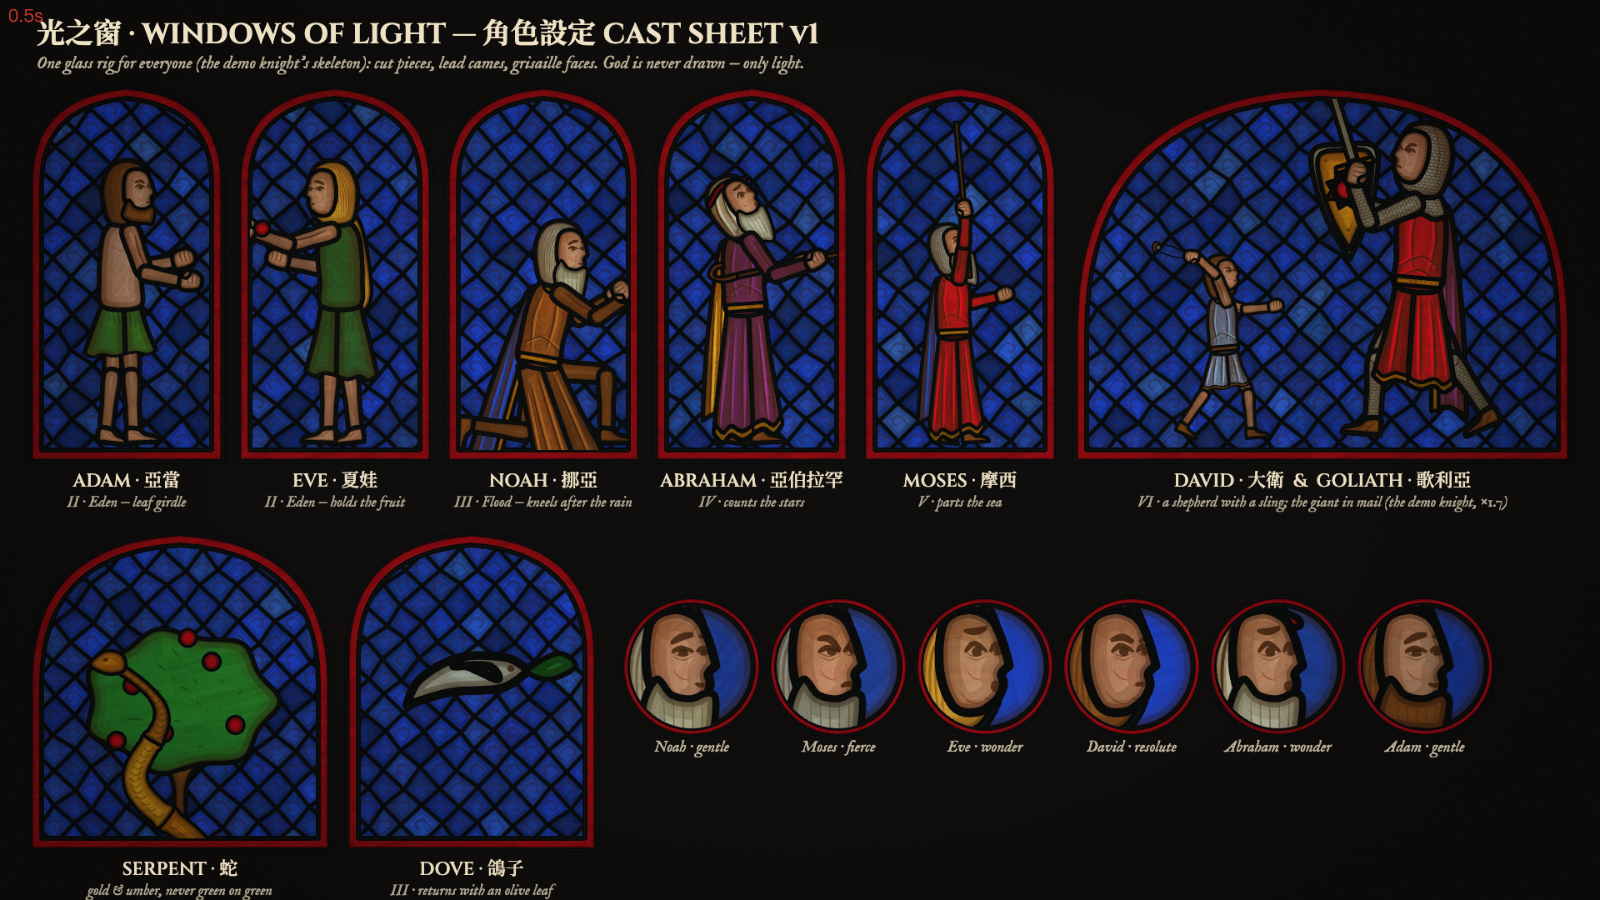
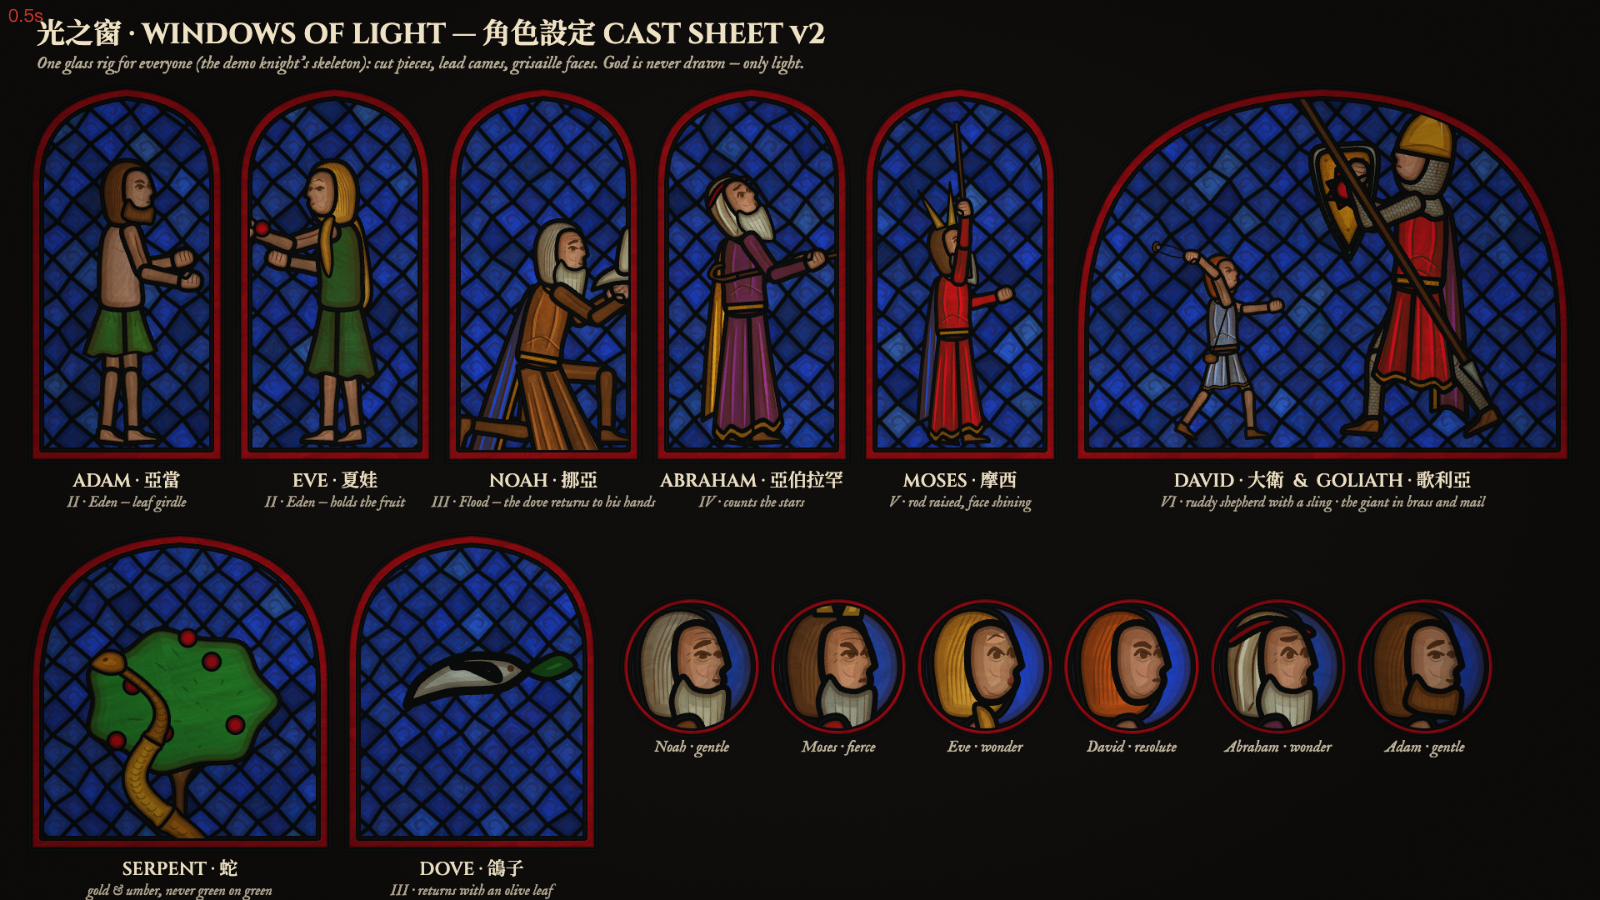
Cast sheet v2: iconographic attributes per character
Moses rays of light, Goliath brass helmet and spear, ruddy David with
shepherd bag, Eve feminine face and hair lock, Noah with the dove,
age lines for the elders.

diff --git a/sg/figure.js b/sg/figure.js
@@ -2,7 +2,8 @@
 // piece logic as knight.js; the costume swaps colours and a few pieces (hair / headcloth / beard / long robe /
 // staff / sling / fruit). Facing right; mirror with a negative x scale. Pelvis at origin, feet at y≈+182.
 import { COL, INK, smooth, circle, ellipse, brush, line } from './glass.js';
-import { SH, EXPR, fk, faceGrisaille, folds, hatch, fingers, POSE } from './knight.js';
+import { SH, EXPR, fk, faceGrisaille, folds, hatch, fingers, POSE, drawKnight } from './knight.js';
+import { dove } from './window.js';
 
 const D = Math.PI / 180;
 export const FPOSE = {
@@ -21,6 +22,19 @@ export const FPOSE = {
 const HAIRLONG = smooth([[-4, -124], [-24, -118], [-36, -76], [-42, -16], [-30, 4], [-20, -30], [-12, -86]]);
 const BAND = smooth([[-22, -48], [2, -60], [30, -54], [31, -48], [3, -54], [-21, -42]]);
 const beardPath = (L) => smooth([[4, -21], [12, -13], [22, -11], [31, -14], [35, -9], [32, 4 + L * .3], [25, L], [14, L * .86], [4, L * .5], [-3, -4]]);
+const LOCK = smooth([[8, -120], [22, -114], [28, -86], [22, -52], [14, -40], [10, -60], [12, -92]]);   // Eve: hair falling in front
+const BAG = smooth([[-40, 4], [-18, 2], [-16, 26], [-28, 34], [-42, 26]]);                        // David: shepherd's bag
+// Moses: two beams of light from the head (Ex 34:29, "the skin of his face shone"; medieval glass draws them as rays)
+const RAY = (x0, y0, x1, y1, w) => smooth([[x0 - w, y0, 1], [x1, y1, 1], [x0 + w, y0, 1]]);
+// age: forehead lines, crow's feet, a line from nose to mouth
+const aged = (g) => { for (const y of [-49, -45]) brush(g, [[12, y], [20, y - 1.5], [28, y]], 1, { w0: .3, w1: .3, color: 'rgba(44,26,12,.5)' });
+  brush(g, [[10, -37], [7, -35]], .9, { color: 'rgba(44,26,12,.5)' }); brush(g, [[10, -33], [7, -30]], .9, { color: 'rgba(44,26,12,.5)' });
+  brush(g, [[29, -27], [26, -22], [24, -18]], 1, { w0: .3, w1: .2, color: 'rgba(44,26,12,.45)' }); g.fillStyle = 'rgba(80,44,22,.2)'; g.fill(ellipse(17, -31, 6, 2.4)); };
+// Eve: thin high arched brows (scrape the heavy brow back to the glass colour, repaint), a touch of colour on the lips
+const feminine = (g, e) => { const bh = e.bh;
+  brush(g, [[11.5, -40.5 + bh + e.bo], [17.5, -42.8 + bh], [23.4, -41.4 + bh + e.bi]], 5.2, { w0: .9, w1: .9, color: 'rgba(188,138,108,.92)' });
+  brush(g, [[12, -42 + bh], [17.5, -45.5 + bh], [23.5, -43.5 + bh]], 1.5, { w0: .4, w1: .3 });
+  g.fillStyle = 'rgba(150,48,50,.3)'; g.fill(ellipse(27.4, -18.4, 3.6, 1.5)); };
 const STAFF = smooth([[-3.6, -118, 1], [3.6, -118, 1], [3.6, 150, 1], [-3.6, 150, 1]]);
 const CROOK = smooth([[-3.6, -112], [-4, -134], [8, -150], [22, -140], [22, -126, 1], [16, -126, 1], [15, -137], [7, -142], [3, -132], [3.6, -112, 1]]);
 
@@ -55,11 +69,13 @@ export function drawFigure(P, base, p, c = {}) {
   P.piece(SH.skirtB, skirt, { id: ID + 12, lead: LW, wash: .4, shade: [-50, 0, 5, 0, .4], paint: g => { if (c.leaves) return leafy(g); folds(g, [[[-6, 10], [-8, 60], [-10, 106]], [[-18, 12], [-24, 60], [-27, 104]], [[-28, 20], [-38, 70], [-44, 106]]], 2.5, true); } });
   P.piece(SH.skirtF, skirt, { id: ID + 13, lead: LW, wash: .35, shade: [5, 0, 45, 0, .2], paint: g => { if (c.leaves) return leafy(g); folds(g, [[[14, 10], [20, 60], [24, 100]], [[24, 20], [32, 64], [38, 98]]], 2.5, true); } });
   if (c.hem !== false) { P.piece(SH.hemB, c.hem || COL.gold, { id: ID + 41, lead: LW * .7, mat: false }); P.piece(SH.hemF, c.hem || COL.gold, { id: ID + 42, lead: LW * .7, mat: false }); }
+  if (c.bag) { P.piece(BAG, c.bag, { id: ID + 48, lead: LW * .8, matW: 6, paint: g => brush(g, [[-38, 8], [-28, 12], [-18, 8]], 1.4, { color: 'rgba(44,26,12,.6)' }) }); }
   // torso
   at(J.torso);
   const torso = c.torso || COL.ruby;
   P.piece(SH.torso, torso, { id: ID + 14, lead: LW, wash: torso === skin ? .2 : .4, shade: [-30, 0, 20, 0, .4], paint: g => { if (torso === skin) { brush(g, [[-12, -80], [2, -74], [16, -80]], 1.6, { color: 'rgba(80,44,22,.45)' }); return; } if (c.leaves) return leafy(g); folds(g, [[[-14, -20], [-18, -60], [-12, -96]], [[6, -24], [10, -60], [8, -90]], [[-24, -26], [-2, -38], [22, -26]]], 2.3, true); hatch(g, -32, -90, -18, -20); } });
   if (c.belt) P.piece(SH.belt, c.belt, { id: ID + 15, lead: LW * .8, mat: false });
+  if (c.bag) { const st = new Path2D(); st.moveTo(20, -104); st.lineTo(-24, -2); P.lead(st, 3.4); }
   if (c.collar !== false && torso !== skin) P.piece(SH.neck, c.collar || COL.gold, { id: ID + 43, lead: LW * .7, mat: false });
   // head: hair cap or headcloth (the knight's coif shape), face, beard
   at(J.head, 1.16);
@@ -69,7 +85,8 @@ export function drawFigure(P, base, p, c = {}) {
   } else {
     P.piece(SH.coif, c.hair || COL.brown, { id: ID + 17, lead: LW / 1.16, shade: [-25, 0, 20, 0, .42], paint: g => { for (let k = 0; k < 6; k++) brush(g, [[-2 + k * 4, -64], [-14 + k * 3, -34], [-14 + k * 3, -2]], 1.5, { color: 'rgba(50,28,10,.5)' }); } });
   }
-  P.piece(SH.face, skin, { id: ID + 18, vary: .04, lead: LW * .75, matW: 5, matA: .9, paint: g => faceGrisaille(g, e) });
+  P.piece(SH.face, skin, { id: ID + 18, vary: .04, lead: LW * .75, matW: 5, matA: .9, paint: g => { faceGrisaille(g, e); if (c.old) aged(g); if (c.fem) feminine(g, e); } });
+  if (c.rays) { P.piece(RAY(2, -62, -12, -126, 7.5), COL.gold2, { id: ID + 49, lead: 3.4, mat: false }); P.piece(RAY(18, -60, 36, -122, 7.5), COL.gold2, { id: ID + 50, lead: 3.4, mat: false }); }
   if (c.beard) {
     P.piece(beardPath(c.beard), c.beardCol || c.hair || COL.white, { id: ID + 47, lead: LW * .6, matW: 5, paint: g => { for (let k = 0; k < 5; k++) brush(g, [[8 + k * 5, -10], [9 + k * 4.5, c.beard * .5], [8 + k * 4, c.beard * .85]], 1.2, { color: 'rgba(60,40,20,.5)' }); brush(g, [[21, -20.5], [27, -22.5], [34, -19.5]], 2.8, { w0: .3, w1: .3 }); } });
   }
@@ -87,16 +104,32 @@ export function drawFigure(P, base, p, c = {}) {
     P.piece(ellipse(1, 74, 9, 6), COL.brown, { id: ID + 24, lead: 3, mat: false }); P.piece(circle(1, 70, 4.5), COL.steel2, { id: ID + 25, lead: 2.4, mat: false });
   }
   P.piece(SH.fist, skin, { id: ID + 28, lead: LW * .8, matW: 5, paint: fingers }); P.piece(SH.thumb, skin, { id: ID + 44, lead: LW * .6, mat: false });
+  if (c.item === 'dove') { P.setTransform(base.translate(J.haF[0], J.haF[1]).translate(-2, -30).scale(1.5)); dove(P, 0, 0, 1, ID + 60); }
   if (c.item === 'fruit') P.piece(circle(8, -8, 9), COL.ruby, { id: ID + 29, lead: 3.4, matW: 4, paint: g => brush(g, [[8, -17], [11, -21]], 1.4, { color: 'rgba(30,40,10,.8)' }) });
+  if (c.longHair) { at(J.torso); P.piece(LOCK, c.hair, { id: ID + 51, lead: LW * .6, matW: 5, paint: g => { brush(g, [[14, -110], [18, -84], [12, -56]], 1.2, { color: 'rgba(60,34,10,.55)' }); } }); }
+  return J;
+}
+
+// Goliath: the demo knight, armed as 1 Sam 17:5–7 — helmet of brass, a spear "like a weaver's beam", no sword
+const HELM = smooth([[-26, -38, 1], [-22, -62], [0, -92, 1], [24, -64], [32, -40, 1], [30, -34, 1], [-26, -32, 1]]);
+const NASAL = smooth([[22, -40, 1], [27, -40, 1], [27, -20, 1], [22, -20, 1]]);
+const SPEAR = smooth([[-5, -250, 1], [5, -250, 1], [5, 170, 1], [-5, 170, 1]]), TIP = smooth([[-9, -250, 1], [0, -300, 1], [9, -250, 1]]);
+export function drawGoliath(P, base, p, id = 700) {
+  const J = drawKnight(P, base, { ...p, face: 'fierce' }, { id, noSword: true });
+  P.setTransform(base.translate(J.head[0], J.head[1]).rotate(J.head[2] * 180 / Math.PI).scale(1.16));
+  P.piece(HELM, COL.gold, { id: id + 80, lead: 5, matW: 8, paint: g => { brush(g, [[-24, -40], [2, -44], [30, -38]], 2.2, { color: 'rgba(60,34,10,.6)' }); brush(g, [[-6, -80], [-12, -56]], 1.4, { color: 'rgba(255,240,200,.5)' }); } });
+  P.setTransform(base.translate(J.haF[0], J.haF[1]).rotate((J.haF[2] + (p.wF || 0)) * 180 / Math.PI));
+  P.piece(SPEAR, COL.brown, { id: id + 82, lead: 5, mat: false, paint: g => line(g, [[0, -240], [0, 160]], 1.2, 'rgba(44,26,12,.5)') });
+  P.piece(TIP, COL.steel, { id: id + 83, lead: 4, mat: false });
   return J;
 }
 
 // the cast (costumes) — locked once the cast sheet is approved
 export const CAST = {
   adam: { id: 300, torso: COL.flesh, skirt: COL.green, skirtLen: .56, leaves: true, hem: false, sleeve: 'skin', legs: 'skin', feet: 'skin', hair: COL.brown, beard: 6, beardCol: COL.brown },
-  eve: { id: 360, torso: COL.green2, skirt: COL.green2, skirtLen: .82, leaves: true, hem: false, collar: false, sleeve: 'skin', legs: 'skin', feet: 'skin', hair: COL.gold2, longHair: true, item: 'fruit' },
-  noah: { id: 420, torso: COL.brown, skirt: COL.brown, skirtLen: 1.5, belt: COL.gold, mantle: COL.cobalt, sleeve: COL.brown, hair: COL.white, head: 'hair', beard: 38, beardCol: COL.white, item: 'staff' },
-  abraham: { id: 480, torso: COL.purple, skirt: COL.purple, skirtLen: 1.5, belt: COL.gold, mantle: COL.gold, mantleEdge: COL.ruby, sleeve: COL.purple, head: 'cloth', cloth: COL.white, band: COL.ruby, beard: 30, beardCol: COL.white, item: 'crook' },
-  moses: { id: 540, torso: COL.ruby, skirt: COL.ruby, skirtLen: 1.5, belt: COL.gold, mantle: COL.cobalt, sleeve: COL.ruby, hair: COL.steel, head: 'hair', beard: 34, beardCol: COL.steel, item: 'staff' },
-  david: { id: 600, torso: COL.sky, skirt: COL.sky, skirtLen: .62, belt: COL.brown, sleeve: 'skin', legs: 'skin', hair: COL.brown, item: 'sling' },
+  eve: { id: 360, fem: true, torso: COL.green2, skirt: COL.green2, skirtLen: .82, leaves: true, hem: false, collar: false, sleeve: 'skin', legs: 'skin', feet: 'skin', hair: COL.gold2, longHair: true, item: 'fruit' },
+  noah: { id: 420, torso: COL.brown, skirt: COL.brown, skirtLen: 1.5, belt: COL.gold, mantle: COL.cobalt, sleeve: COL.brown, hair: COL.white, head: 'hair', beard: 38, beardCol: COL.white, item: 'dove', old: true },
+  abraham: { id: 480, torso: COL.purple, skirt: COL.purple, skirtLen: 1.5, belt: COL.gold, mantle: COL.gold, mantleEdge: COL.ruby, sleeve: COL.purple, head: 'cloth', cloth: COL.white, band: COL.ruby, beard: 30, beardCol: COL.white, item: 'crook', old: true },
+  moses: { id: 540, torso: COL.ruby, skirt: COL.ruby, skirtLen: 1.5, belt: COL.gold, mantle: COL.cobalt, sleeve: COL.ruby, hair: '#6a4a2a', head: 'hair', beard: 34, beardCol: COL.steel, item: 'staff', rays: true, old: true },
+  david: { id: 600, torso: COL.sky, skirt: COL.sky, skirtLen: .62, belt: COL.brown, sleeve: 'skin', legs: 'skin', hair: '#b8541c', item: 'sling', bag: COL.brown },
 };

diff --git a/clips/cast.js b/clips/cast.js
@@ -25,29 +25,29 @@ window.CLIP = {
       const p = FPOSE[pose];
       drawFigure(P, I.translate(x + w / 2 + dx, y + h - 22 - 182 * sc + (p.rootDy || 0) * sc).scale(flip ? -sc : sc, sc), p, cast);
     };
-    O.textAlign = 'left'; O.fillStyle = '#efe2c4'; O.font = '700 34px Cinzel, "Noto Serif TC"'; O.fillText('光之窗 · WINDOWS OF LIGHT — 角色設定 CAST SHEET v1', 44, 52);
+    O.textAlign = 'left'; O.fillStyle = '#efe2c4'; O.font = '700 34px Cinzel, "Noto Serif TC"'; O.fillText('光之窗 · WINDOWS OF LIGHT — 角色設定 CAST SHEET v2', 44, 52);
     O.font = 'italic 21px "IM Fell English"'; O.fillStyle = 'rgba(239,226,196,.75)';
     O.fillText('One glass rig for everyone (the demo knight’s skeleton): cut pieces, lead cames, grisaille faces. God is never drawn — only light.', 44, 82);
     // row 1: the people, each in the pose their chapter needs
     const row = [
       ['stand', 'adam', 'ADAM · 亞當', 'II · Eden — leaf girdle', .9, false],
       ['offer', 'eve', 'EVE · 夏娃', 'II · Eden — holds the fruit', .9, true],
-      ['pray', 'noah', 'NOAH · 挪亞', 'III · Flood — kneels after the rain', .9, false],
+      ['pray', 'noah', 'NOAH · 挪亞', 'III · Flood — the dove returns to his hands', .9, false],
       ['lookUp', 'abraham', 'ABRAHAM · 亞伯拉罕', 'IV · counts the stars', .86, false],
-      ['raiseStaff', 'moses', 'MOSES · 摩西', 'V · parts the sea', .7, false],
+      ['raiseStaff', 'moses', 'MOSES · 摩西', 'V · rod raised, face shining', .7, false],
     ];
     row.forEach(([pose, who, t1, t2, sc, flip], i) => {
       const x = 36 + i * 250, y = 104, w = 232, h = 450;
-      inPanel(x, y, w, h, 11 + i, () => fig(x, y, w, h, pose, pose === 'pray' ? { ...CAST[who], item: null } : CAST[who], sc, flip ? 6 : -6, flip));
+      inPanel(x, y, w, h, 11 + i, () => fig(x, y, w, h, pose, CAST[who], sc, flip ? 6 : -6, flip));
       label(x + w / 2, y + h + 30, t1, t2);
     });
     // David and Goliath share a panel, to show the scale
     { const x = 1290, y = 104, w = 594, h = 450;
       inPanel(x, y, w, h, 21, () => {
-        const sc = 1.02; drawKnight(P, I.translate(x + 410, y + h - 22 - 182 * sc).scale(-sc, sc), { ...POSE.guard, face: 'fierce' }, { id: 700 });
+        const sc = 1.02; E.drawGoliath(P, I.translate(x + 410, y + h - 22 - 182 * sc).scale(-sc, sc), { ...POSE.guard, wF: 40 * Math.PI / 180 });
         fig(x, y, 260, h, 'sling', CAST.david, .6, 50);
       });
-      label(x + w / 2, y + h + 30, 'DAVID · 大衛  &  GOLIATH · 歌利亞', 'VI · a shepherd with a sling; the giant in mail (the demo knight, ×1.7)'); }
+      label(x + w / 2, y + h + 30, 'DAVID · 大衛  &  GOLIATH · 歌利亞', 'VI · ruddy shepherd with a sling · the giant in brass and mail'); }
     // row 2: serpent, dove, faces
     { const x = 36, y = 640, w = 360, h = 380;
       inPanel(x, y, w, h, 31, () => { GX.bigTree(E, P, x + w / 2, y + h + 40, .95, 800); GX.serpent(E, P, x + w / 2, y + h - 110, 1.15, 830); });
@@ -66,7 +66,7 @@ window.CLIP = {
       P.setTransform(I); P.piece(circle(cx, cy, r + 10), COL.ruby, { id: 900 + i, lead: 6, mat: false });
       P.piece(circle(cx, cy, r), COL.cobalt, { id: 910 + i, lead: 6, matW: 14 });
       P.g.save(); P.s.save(); P.g.clip(circle(cx, cy, r)); P.s.clip(circle(cx, cy, r));
-      const sc = 2.0; drawFigure(P, I.translate(cx - 30 * sc, cy + 150 * sc).scale(sc), { ...FPOSE.stand, face, neck: 0 }, { ...CAST[who], item: null, mantle: null });
+      const sc = 1.55; drawFigure(P, I.translate(cx - 16 * sc, cy + 150 * sc).scale(sc), { ...FPOSE.stand, face, neck: 0 }, { ...CAST[who], item: null, mantle: null });
       P.setTransform(I); P.g.restore(); P.s.restore();
       O.textAlign = 'center'; O.fillStyle = 'rgba(233,220,192,.8)'; O.font = 'italic 19px "IM Fell English"'; O.fillText(`${n} · ${face}`, cx, cy + r + 28);
     });

diff --git a/engine.html b/engine.html
@@ -25,7 +25,7 @@ import { makeComp } from './sg/comp.js';
 import { renderScene } from './sg/scene.js';
 import { drawBanderole } from './sg/subs.js';
 import { drawKnight, POSE } from './sg/knight.js';
-import { drawFigure, FPOSE, CAST } from './sg/figure.js';
+import { drawFigure, drawGoliath, FPOSE, CAST } from './sg/figure.js';
 import { archPanel, drawPanel } from './sg/test.js';
 
 const mk = (w = 1920, h = 1080) => { const c = document.createElement('canvas'); c.width = w; c.height = h; return c; };
@@ -40,7 +40,7 @@ const key = (t, ks) => { if (t <= ks[0][0]) return ks[0][1]; for (let i = 0; i <
 const step = (t, fps = 8) => Math.floor(t * fps + 1e-6) / fps;   // glass figures move in held steps
 // sun colours × intensity by time of day (STYLE.md §3)
 const SUN = { dawn: [.7, .83, 1.0], noon: [1, .97, .9], aft: [1, .84, .6], dusk: [1, .6, .34], violet: [.62, .34, .55], moon: [.55, .66, 1.0] };
-const E = { ...LIB, ...GLASS, ...WIN, key, step, SUN, Lc, L, comp, drawKnight, POSE, drawFigure, FPOSE, CAST, archPanel, drawPanel };
+const E = { ...LIB, ...GLASS, ...WIN, key, step, SUN, Lc, L, comp, drawKnight, POSE, drawFigure, drawGoliath, FPOSE, CAST, archPanel, drawPanel };
 window.E = E;
 
 const subsOf = (A) => (A.caps || []).map(([t0, t1, en, zh]) => ({ t0, t1, text: `${zh}\n${en}` }));

diff --git a/PROGRESS.md b/PROGRESS.md
@@ -3,7 +3,7 @@
 **Resume here:** read this file (and `TREATMENT.md`), then continue from **Next step**.
 
 ## Next step
-**Cast sheet v1 delivered (2026-09-29), waiting for approval:** `frames/castsheet.png` (also `docs/`), dev clip
+**Cast sheet v2 delivered (2026-09-29), waiting for approval** (v2 = iconography pass, see Notes): `frames/castsheet.png` (also `docs/`), dev clip
 `clips/cast.js`, rig `sg/figure.js` (costumes in `CAST`, poses in `FPOSE`). After approval: **Sprint 2 · 02-eden,
 03-flood** (see TREATMENT clip list), then compile a silent draft for review. User is making the Suno track.
 Sample approved; darker hall look approved (user left it to Claude; see Decisions). Code on GitHub:
@@ -40,6 +40,10 @@ https://github.com/dizhangai-star/bible-story (renders not in git; `../_kit` req
 - `clips/sf.js`: style frames (dev clip). Sfx kinds in `audio/music.mjs`: glass {m}, crack, air {d}, bell {m}.
 
 ## Notes
+- Cast iconography (v2, checked against the text and medieval/Doré tradition): Moses = two gold rays from the head
+  (Ex 34:29), brown hair + grey beard; Goliath = `drawGoliath` (knight + brass helmet + weaver's-beam spear, no sword,
+  1 Sam 17:5–7); David = ruddy/auburn hair, shepherd's bag + strap, sling (1 Sam 16:12, 17:40); Eve = `fem` face
+  (thin arched brows, lip tint) + front hair lock; Noah = dove in his hands; elders = `old` age lines.
 - Gold gilding on sunlit stone is unreadable: keep `gild` ≤ .15 in daylight (dark incised letters read).
 - `raysK` .45 in wide shots, or the shafts wash out lancet IV and the title.
 - Unlit rose pieces: dim transmittance to ~3 % (`rose.lit`), otherwise the petals don't read as lighting one by one.
